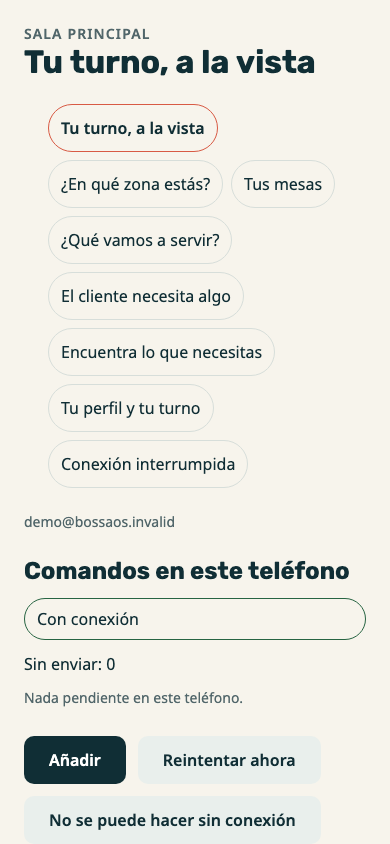
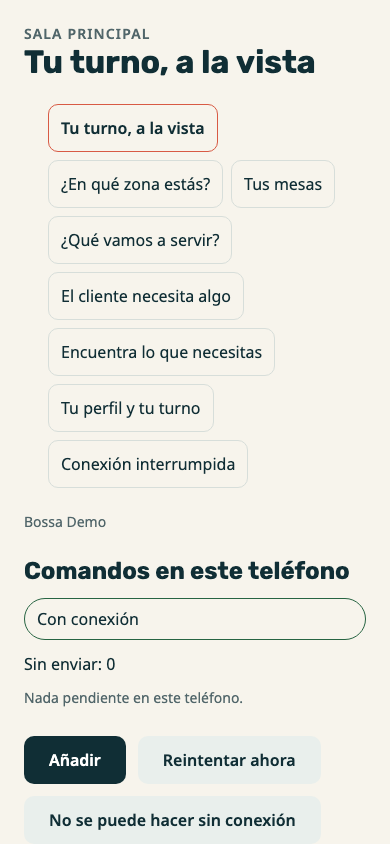
Auditoria (5): o staff deixa de vestir a folha do sitio publico
Quatro pontos, todos medidos no navegador.

## A classe

`NavegacaoDoStaff` usava `bo-publico__seccoes` — a folha do SITIO PUBLICO — e
herdava duas coisas que nao sao dela: raio de capsula (999 px) onde a regua manda
10 px para controlos, e `--bo-publico-texto`, o token do canal que o restaurante
configura, num ecra de operacao onde nao pinta nada.

Classe propria `.bo-seccoes`, que pede as cores ao contrato da superficie da
tarefa (2) e por isso serve o claro e o escuro sem uma regra por superficie.

  raio do item   999px -> 10px
  cor do item    --bo-publico-texto -> --bo-sobre-superficie (rgb 16,46,53)

**Medido, e maior do que o apontado:** sao CINCO os componentes a vestir a classe
publica — o staff, o KDS, os relatorios, a sala e o sitio. O ultimo e publico e
esta no seu lugar; os outros tres sao a mesma heranca. Movi o staff, que e a
tarefa, e a classe fica escrita para quem agendar o resto.

## As duas linhas em falta

`.bo-staff .bo-lista a` definia geometria e esquecia a cor: as ligacoes saiam com
o azul sublinhado por omissao do navegador, no meio de um ecra que nao tem mais
nada azul. Uma regra que define geometria e deixa a cor ao navegador esta a
deixar decidir quem nao sabe deste produto.

## O titulo, e uma emenda ao meu proprio numero

A terceira ocorrencia era o `aria-label` da navegacao, que usava a mesma chave
`staffE15.turno` do titulo. Passou a ter rotulo proprio nas tres linguas.
[…]

Changed region(s): [[0.0615, 0.6161, 0.4308, 0.6469], [0.5231, 0.1232, 0.5538, 0.1848], [0.1231, 0.1232, 0.1538, 0.1848]]

diff --git a/packages/ui/src/estilos.css b/packages/ui/src/estilos.css
@@ -724,6 +724,12 @@ p { margin: 0; }
   display: flex; align-items: center;
   min-height: var(--bo-toque-operacao);
   overflow-wrap: anywhere;
+  /* Faltavam as duas: sem `color` e sem `text-decoration`, as ligações saíam
+     com o azul sublinhado por omissão do navegador — no meio de um ecrã que não
+     tem mais nada azul. Uma regra que define geometria e esquece a cor deixa o
+     navegador decidir, e o navegador não sabe deste produto. */
+  color: var(--bo-sobre-superficie);
+  text-decoration: none;
 }
 
 /* A fila local (E15). Estas classes estavam a ser usadas desde o primeiro dia do
@@ -1341,6 +1347,33 @@ label.bo-planos__item input[type="radio"] {
   color: var(--bo-publico-texto); text-decoration: none;
 }
 .bo-publico__seccoes a[aria-current='page'] { font-weight: 700; border-color: var(--bo-navegacao-activa); }
+
+/* ── A navegação de secções INTERNA ──────────────────────────────────────────
+ *
+ * O staff vestia `bo-publico__seccoes` — a folha do SÍTIO PÚBLICO — e herdava
+ * daí duas coisas que não são dele: o raio de cápsula (999 px) onde a régua
+ * manda 10 px para controlos, e `--bo-publico-texto`, um token do canal que o
+ * restaurante configura, num ecrã de operação onde não pinta nada.
+ *
+ * Isto é a mesma navegação sem a herança errada. Pede as cores ao contrato da
+ * superfície, portanto serve o claro e o escuro sem uma regra por superfície.
+ *
+ * MEDIDO, e fica escrito para quem agendar o resto: são CINCO os componentes a
+ * vestir a classe pública — o staff (movido aqui), o KDS, os relatórios, a sala
+ * e o sítio. O último é público e está no seu lugar; os outros três são a mesma
+ * herança e não os movo nesta tarefa, que é a do staff. */
+.bo-seccoes {
+  display: flex; flex-wrap: wrap; gap: var(--bo-espaco-sm);
+  padding: 0 var(--bo-margem-movel);
+  max-width: var(--bo-largura-maxima); margin: 0 auto;
+}
+.bo-seccoes a {
+  display: inline-flex; align-items: center;
+  min-height: var(--bo-toque-operacao); padding: 0 var(--bo-espaco-md);
+  border: 1px solid var(--bo-borda); border-radius: var(--bo-raio-controlo);
+  color: var(--bo-sobre-superficie); text-decoration: none;
+}
+.bo-seccoes a[aria-current='page'] { font-weight: 700; border-color: var(--bo-navegacao-activa); }
 .bo-publico__heroi { display: grid; gap: var(--bo-espaco-md); }
 .bo-publico__heroi h1 { font-size: 32px; line-height: 1.15; overflow-wrap: anywhere; }
 @media (min-width: 768px) { .bo-publico__heroi h1 { font-size: 44px; } }

diff --git a/apps/web/app/[idioma]/staff/[locationId]/page.tsx b/apps/web/app/[idioma]/staff/[locationId]/page.tsx
@@ -43,7 +43,10 @@ export default async function TurnoDoStaff({
       <CabecalhoDoStaff idioma={idioma} locationId={locationId} unidade={unidade.nome}
                         titulo={s.turno} tela="STAFF-001" actual="" />
 
-      <p className="bo-campo__ajuda" data-teste="operador">{actor.email}</p>
+      {/* O NOME de quem está ao balcão, e o email só se não houver nome. O
+          `sessao.ts` já resolve `actor.nome` — mostrar o email era mostrar a
+          credencial onde se esperava a pessoa. */}
+      <p className="bo-campo__ajuda" data-teste="operador">{actor.nome || actor.email}</p>
 
       <PainelDaFila
         particao={particao}

diff --git a/apps/web/src/staff/NavegacaoDoStaff.tsx b/apps/web/src/staff/NavegacaoDoStaff.tsx
@@ -79,7 +79,7 @@ export function NavegacaoDoStaff({
   const s = mensagensDe(idioma).staffE15 as unknown as Record<string, string | undefined>;
   const base = `/${idioma}/staff/${locationId}`;
   return (
-    <nav className="bo-publico__seccoes" aria-label={s.turno} data-teste="navegacao">
+    <nav className="bo-seccoes" aria-label={s.seccoes ?? s.turno} data-teste="navegacao">
       {SECCOES_DO_STAFF.filter((x) => x.principal).map((x) => (
         <a key={x.rota} href={`${base}${x.rota}`} data-seccao={x.id}
            aria-current={actual === x.rota ? 'page' : undefined}>
